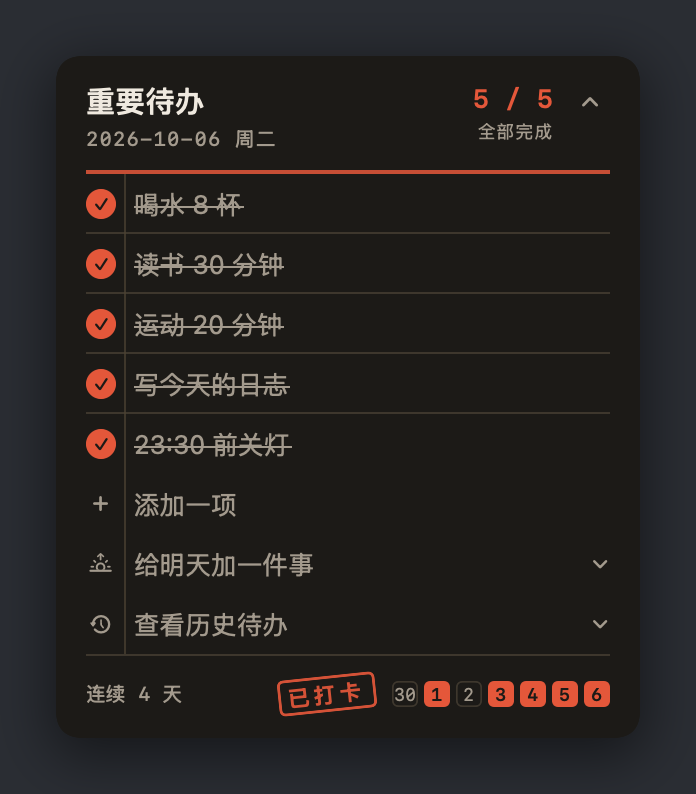
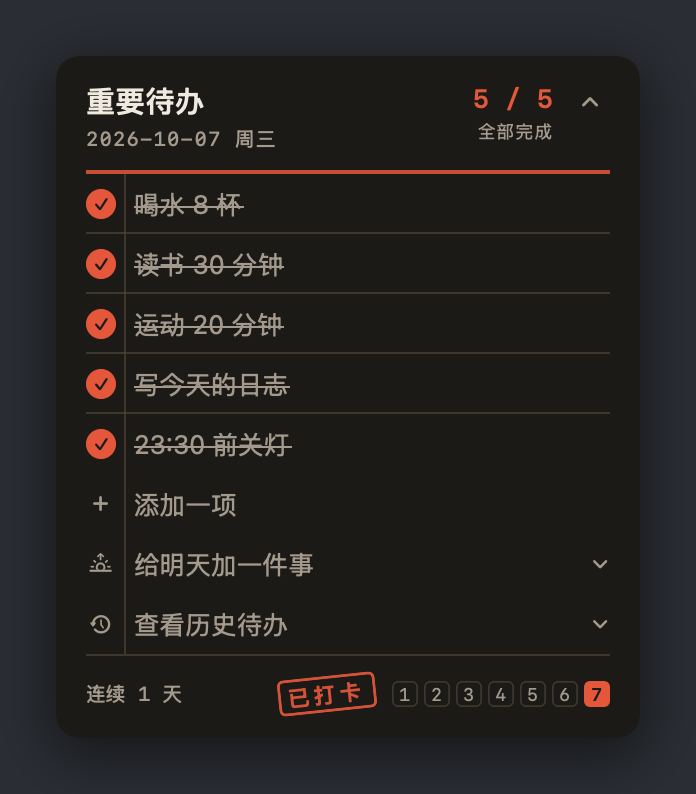
清单按天走：跨天即清空，昨天只留在历史里
修掉「昨天的待办第二天还出现在今日清单上」：
- 任务改为按天归属（每条都有 day）。今天写的事只属于今天，跨过 0 点
  卡片自然变空——不需要清空动作，因为不再有每天重复的任务类型
- 「添加一项」现在写的是今天的事（文案同步改成今天要做的事…）
- 取消未完成顺延：没做完的当晚随那天的记录进历史，今日清单不会残留
- 历史兜底：某天有清单但没打过孔时，用那天的清单显示，不再误报没有记录

旧数据迁移（你机器上的数据就是这种）：
- 无日期的条目（老版本的每天重复）启动时归到前一天，
  这样今天干净、它们仍然留在昨天的历史里
- 同时把它们并入昨天的应打清单，并重算今天的应打清单——否则今天的清单
  已不含这些条目、要求里却还留着，会导致今天永远打不满、盖不上章
- 迁移只跑一次；已在真实数据副本上干跑验证后再应用到本机

自检 91 项全过（新增：跨天后今日清单只剩明天排的那件、昨天一条都没跟过来、
漏掉一天只进历史、旧数据迁移、迁移可重复打开不重复搬运）

diff --git a/Sources/Tests.swift b/Sources/Tests.swift
@@ -172,16 +172,24 @@ struct TestRunner {
         check("今天的清单里没有它", !reopened3.todayTodos.contains { $0.id == planned.first?.id })
         check("今天的条目数没变", reopened3.todayTodos.count == todayBefore,
               "got \(reopened3.todayTodos.count)")
-        check("明天那天的清单里有它", reopened3.todos(on: tomorrow).count == todayBefore + 1,
+        check("明天的清单只有明天排的事", reopened3.todos(on: tomorrow).count == 1,
               "got \(reopened3.todos(on: tomorrow).count)")
+        check("今天的事不会跟到明天",
+              reopened3.todos(on: tomorrow).allSatisfy { $0.day == tomorrowKey })
         reopened3.addTomorrow(title: "   ")
         check("空标题被拒绝", reopened3.tomorrowTodos.count == 1)
 
         print("第二天：自动变成今日待办")
         let plannedID = planned.first!.id
+        let todayIDsBefore = Set(reopened3.todayTodos.map(\.id))
         reopened3.advanceClock(to: tomorrow)
         check("时钟走到第二天", Calendar.current.isDate(reopened3.now, inSameDayAs: tomorrow))
         check("它进了今日清单", reopened3.todayTodos.contains { $0.id == plannedID })
+        check("昨天的清单一条都没跟过来",
+              reopened3.todayTodos.allSatisfy { !todayIDsBefore.contains($0.id) },
+              "got \(reopened3.todayTodos.map(\.title))")
+        check("今日清单只剩明天排过的那一件", reopened3.todayTodos.count == 1,
+              "got \(reopened3.todayTodos.count)")
         check("明日抽屉空了", reopened3.tomorrowTodos.isEmpty)
         check("新的一天从零开始", reopened3.doneCount == 0, "got \(reopened3.doneCount)")
         check("新的一天还没完成", !reopened3.allDone)
@@ -190,17 +198,21 @@ struct TestRunner {
         check("打孔记录落在第二天", (reopened3.log[tomorrowKey] ?? []).contains(plannedID))
         check("新的一天在历史里是完成的", reopened3.isComplete(tomorrow))
 
-        print("漏掉的一天会顺延，不会悄悄消失")
-        let carryURL = URL(fileURLWithPath: NSTemporaryDirectory())
-            .appendingPathComponent("dailycheck-carry-\(UUID().uuidString).json")
-        let carried = Store(dataURL: carryURL)
-        carried.addTomorrow(title: "明天要做的重要事")
-        let carriedID = carried.tomorrowTodos.first!.id
-        carried.advanceClock(to: tomorrow)
-        carried.advanceClock(to: dayAfter)   // 第二天整天没打开过
-        check("没做完的明日待办顺延到今天", carried.todayTodos.contains { $0.id == carriedID })
-        check("顺延后不再是明天的待办", carried.tomorrowTodos.isEmpty)
-        check("它的日期被改成今天", carried.todayTodos.first { $0.id == carriedID }?.day == Store.key(for: dayAfter))
+        print("漏掉的一整天：今天清空，只留在历史里")
+        let missedURL = URL(fileURLWithPath: NSTemporaryDirectory())
+            .appendingPathComponent("dailycheck-missed-\(UUID().uuidString).json")
+        let missed = Store(dataURL: missedURL)
+        missed.addTomorrow(title: "明天要做的重要事")
+        let missedID = missed.tomorrowTodos.first!.id
+        missed.advanceClock(to: tomorrow)
+        check("到了那天它出现在今日清单", missed.todayTodos.contains { $0.id == missedID })
+        missed.advanceClock(to: dayAfter)   // 那一天整天没打开，也一条都没打
+        check("第二天今天的清单是空的", missed.todayTodos.isEmpty,
+              "got \(missed.todayTodos.map(\.title))")
+        check("没做完的也不会跟到今天", !missed.todayTodos.contains { $0.id == missedID })
+        let missedHistory = missed.history(days: 7)
+        check("它留在那天的历史里",
+              missedHistory.contains { day in day.entries.contains { $0.id == missedID } })
 
         print("做完的明日待办不会顺延")
         let doneURL = URL(fileURLWithPath: NSTemporaryDirectory())
@@ -211,10 +223,41 @@ struct TestRunner {
         finished.advanceClock(to: tomorrow)
         finished.toggle(finished.todos.first { $0.id == finishedID }!)
         finished.advanceClock(to: dayAfter)
-        check("不会又出现在今天", !finished.todayTodos.contains { $0.id == finishedID })
+        check("做完的也不会回今天的清单", !finished.todayTodos.contains { $0.id == finishedID })
         check("但它留在那天被记住", (finished.log[tomorrowKey] ?? []).contains(finishedID))
-        try? FileManager.default.removeItem(at: carryURL)
+        try? FileManager.default.removeItem(at: missedURL)
         try? FileManager.default.removeItem(at: doneURL)
+
+        print("旧数据迁移：无日期的任务归到昨天，今天清空")
+        let yesterdayDate = Calendar.current.date(byAdding: .day, value: -1, to: Date())!
+        let legacyURL = URL(fileURLWithPath: NSTemporaryDirectory())
+            .appendingPathComponent("dailycheck-legacy-\(UUID().uuidString).json")
+        let legacyPayload: [String: Any] = [
+            "todos": [
+                ["id": "old1", "title": "昨天记的事"],
+                ["id": "old2", "title": "昨天记的另一件事"],
+            ],
+            "log": [yesterdayKey: ["old1", "old2"]],
+        ]
+        if let data = try? JSONSerialization.data(withJSONObject: legacyPayload) {
+            try? data.write(to: legacyURL)
+        }
+        let legacy = Store(dataURL: legacyURL)
+        check("旧任务被归到昨天", legacy.todos.allSatisfy { $0.day == yesterdayKey },
+              "got \(legacy.todos.map { $0.day ?? "nil" })")
+        check("今天不显示昨天的事", legacy.todayTodos.isEmpty,
+              "got \(legacy.todayTodos.map(\.title))")
+        check("迁移时补上昨天的应打清单", legacy.needed[yesterdayKey] == ["old1", "old2"])
+        check("昨天在历史里仍是完整的一天", legacy.isComplete(yesterdayDate))
+        check("历史里还看得见那两条",
+              legacy.history(days: 7).contains { day in
+                  Calendar.current.isDate(day.date, inSameDayAs: yesterdayDate)
+                      && day.entries.count == 2 && day.doneCount == 2
+              })
+        let legacyReopened = Store(dataURL: legacyURL)
+        check("再次打开不会重复迁移", legacyReopened.todayTodos.isEmpty
+                && legacyReopened.todos.allSatisfy { $0.day == yesterdayKey })
+        try? FileManager.default.removeItem(at: legacyURL)
 
         try? FileManager.default.removeItem(at: url)
         print(failures == 0 ? "\nall checks passed" : "\n\(failures) check(s) failed")

diff --git a/Sources/Store.swift b/Sources/Store.swift
@@ -5,9 +5,10 @@ import SwiftUI
 struct Todo: Codable, Identifiable, Hashable {
     var id: String
     var title: String
-    /// nil means "every day" (the original behaviour). A day key means this one is only
-    /// needed on that date — that is how 明日待办 items are stored, and how they turn
-    /// into today's items without any other moving part.
+    /// The day this item belongs to. Every item belongs to exactly one day: the card is a
+    /// per-day list, so tomorrow starts empty and yesterday lives on in the history.
+    /// nil only ever appears in data written by an older build — the store re-dates those
+    /// to the previous day on launch (see migrateLegacyItems).
     var day: String? = nil
 }
 
@@ -127,7 +128,13 @@ final class Store: ObservableObject {
                 frameOrigin = CGPoint(x: x, y: y)
             }
         } else {
-            todos = Store.starterTodos
+            // The examples belong to today, like everything else on the card.
+            let today = Store.key(for: Date())
+            todos = Store.starterTodos.map { todo in
+                var copy = todo
+                copy.day = today
+                return copy
+            }
             log = [:]
             needed = [:]
             floating = true
@@ -139,8 +146,8 @@ final class Store: ObservableObject {
         clock = Timer.publish(every: 30, on: .main, in: .common)
             .autoconnect()
             .sink { [weak self] date in self?.advanceClock(to: date) }
-        // If the card was closed across midnight, finish the rollover now.
-        carryForwardOverdue()
+        // Data from an older build has undated items; give them a day so today is clean.
+        migrateLegacyItems()
     }
 
     // MARK: - Days
@@ -162,10 +169,11 @@ final class Store: ObservableObject {
     var tomorrow: Date { Store.date(daysAgo: -1, from: now) }
     var tomorrowKey: String { Store.key(for: tomorrow) }
 
-    /// Every day's list: recurring tasks, plus anything scheduled for that one date.
+    /// The list for one particular day, and nothing else: yesterday's items do not come
+    /// along, and tomorrow's wait in their own drawer.
     func todos(on date: Date) -> [Todo] {
         let key = Store.key(for: date)
-        return todos.filter { $0.day == nil || $0.day == key }
+        return todos.filter { $0.day == key }
     }
 
     var todayTodos: [Todo] { todos(on: now) }
@@ -249,16 +257,17 @@ final class Store: ObservableObject {
         return stride(from: 0, to: days, by: 1).map { offset in
             let day = Store.date(daysAgo: offset, from: now)
             let key = Store.key(for: day)
-            let required = needed[key] ?? log[key] ?? []
+            // What that day asked for: its recorded requirement, what it actually
+            // punched, or — for a day nobody finished — the list it was given.
+            let required = needed[key] ?? log[key] ?? todos(on: day).map(\.id)
             let done = Set(log[key] ?? [])
             let entries = required.compactMap { id -> HistoryDay.Entry? in
                 guard let title = titles[id] else { return nil }
                 return HistoryDay.Entry(id: id, title: title, done: done.contains(id))
             }
-            let hasRecord = needed[key] != nil || log[key] != nil
             return HistoryDay(date: day,
                               complete: isComplete(day),
-                              hasRecord: hasRecord && !required.isEmpty,
+                              hasRecord: !entries.isEmpty,
                               entries: entries)
         }
     }
@@ -336,7 +345,9 @@ final class Store: ObservableObject {
     func add(title: String) {
         let trimmed = title.trimmingCharacters(in: .whitespacesAndNewlines)
         guard !trimmed.isEmpty else { return }
-        todos.append(Todo(id: UUID().uuidString, title: trimmed))
+        // Belongs to today only. Tomorrow's card starts with tomorrow's list, and this
+        // one moves into the history with the rest of the day.
+        todos.append(Todo(id: UUID().uuidString, title: trimmed, day: todayKey))
         refreshTodayRequirement()
         save()
     }
@@ -350,27 +361,36 @@ final class Store: ObservableObject {
         save()
     }
 
-    /// Moves an unfinished item that was planned for an earlier day onto today. A missed
-    /// day should not silently swallow something the user marked as important.
-    func carryForwardOverdue() {
-        let key = todayKey
-        var moved = false
-        for index in todos.indices {
-            guard let day = todos[index].day, day < key else { continue }
-            if (log[day] ?? []).contains(todos[index].id) { continue }
-            todos[index].day = key
-            moved = true
+    /// Items written before the card became a per-day list carry no date. They are
+    /// stamped with the previous day, which is what makes today start clean — and they
+    /// stay visible in the history for that day, with the punches they earned.
+    func migrateLegacyItems() {
+        let fallbackDay = Store.key(for: Store.date(daysAgo: 1, from: now))
+        var migrated: [String] = []
+        for index in todos.indices where todos[index].day == nil {
+            todos[index].day = fallbackDay
+            migrated.append(todos[index].id)
         }
-        guard moved else { return }
-        if needed[key] != nil { refreshTodayRequirement() }
+        guard !migrated.isEmpty else { return }
+        // Yesterday's card asked for those items, so add them to whatever yesterday was
+        // already recorded as requiring — nothing the user wrote becomes invisible.
+        var yesterday = needed[fallbackDay] ?? []
+        for id in migrated where !yesterday.contains(id) {
+            yesterday.append(id)
+        }
+        needed[fallbackDay] = yesterday
+        // Today's list is now just today's items, so today's requirement has to be
+        // rewritten too; otherwise the day could never be completed (it would still be
+        // waiting for items that belong to yesterday).
+        refreshTodayRequirement()
         save()
     }
 
     /// The card's clock. The timer calls it, and the checks call it to travel a day.
+    /// Rolling over needs no other work: the new day simply has its own — usually empty —
+    /// list, and yesterday's stays visible in the history only.
     func advanceClock(to date: Date) {
-        let previous = todayKey
         now = date
-        if todayKey != previous { carryForwardOverdue() }
     }
 
     func rename(_ todo: Todo, to title: String) {

diff --git a/Sources/WidgetView.swift b/Sources/WidgetView.swift
@@ -180,7 +180,7 @@ struct WidgetView: View {
                     .font(.system(size: 9, weight: .bold))
                     .foregroundStyle(theme.stamp)
                     .frame(width: 15)
-                TextField("每天都要做的一件事…", text: $draft)
+                TextField("今天要做的事…", text: $draft)
                     .textFieldStyle(.plain)
                     .font(Face.task)
                     .foregroundStyle(theme.ink)
@@ -218,7 +218,7 @@ struct WidgetView: View {
             }
             .buttonStyle(.plain)
             .onHover { hoverAdd = $0 }
-            .help("添加一个每天都做的事")
+            .help("写一件今天要做的事（明天它跟着这一天的记录进历史）")
         }
     }
 
@@ -360,7 +360,7 @@ struct WidgetView: View {
             Text("这张卡还没有印上内容")
                 .font(Face.task)
                 .foregroundStyle(theme.ink)
-            Text("写下每天都要做的事，明天它会自己清空。")
+            Text("写下今天要做的事；明天这张卡会清空，只留在历史里。")
                 .font(.system(size: 11))
                 .foregroundStyle(theme.inkSoft)
         }

diff --git a/Sources/Preview.swift b/Sources/Preview.swift
@@ -40,12 +40,15 @@ func sampleStore(allDone: Bool,
                  width: Double = 292) -> Store {
     let url = URL(fileURLWithPath: NSTemporaryDirectory())
         .appendingPathComponent("dailycheck-preview-\(UUID().uuidString).json")
+    // Every item belongs to a day, so the sample has to say which one — otherwise the
+    // store would treat it as legacy data and file it under yesterday.
+    let todayKey = Store.key(for: Date())
     var todos: [[String: String]] = empty ? [] : [
-        ["id": "t1", "title": "喝水 8 杯"],
-        ["id": "t2", "title": "读书 30 分钟"],
-        ["id": "t3", "title": "运动 20 分钟"],
-        ["id": "t4", "title": "写今天的日志"],
-        ["id": "t5", "title": "23:30 前关灯"],
+        ["id": "t1", "title": "喝水 8 杯", "day": todayKey],
+        ["id": "t2", "title": "读书 30 分钟", "day": todayKey],
+        ["id": "t3", "title": "运动 20 分钟", "day": todayKey],
+        ["id": "t4", "title": "写今天的日志", "day": todayKey],
+        ["id": "t5", "title": "23:30 前关灯", "day": todayKey],
     ]
     let ids = todos.compactMap { $0["id"] }
     if tomorrowOpen {

diff --git a/DESIGN.md b/DESIGN.md
@@ -116,13 +116,16 @@
 ○  复习 state 共享信息如何保证上下文                  ← 空心小圈：今天还不是孔位
 ```
 
-它没有另造一套机制，而是把"这一天"写进任务本身：`Todo.day` 为空＝每天都要做（原有行为），
-有日期＝只在那一做。于是"第二天自动变成今日待办"不需要任何定时任务——到了那天，它本来
-就落在当天的清单里；`needed`／`log`／连续天数／历史全都照旧工作。
+它没有另造一套机制，而是把"这一天"写进任务本身：**每条任务都属于某一天**（`Todo.day`）。
+于是"第二天自动变成今日待办"不需要任何定时任务——到了那天，它本来就落在当天的清单里；
+`needed`／`log`／连续天数／历史全都照旧工作。
+
+这条规则是这张卡的核心：**一天一份清单**。今天写的事只属于今天，跨过 0 点卡片自然变空，
+昨天的事只留在历史里——不需要"清空"这个动作，因为没有任何东西是"每天重复"的。
 
 - **今天不占完成度**：明天的事项不在今日清单里，不影响今天的 `2 / 5` 与连续天数（有自检盯着）。
-- **不会悄悄消失**：如果那天整天没打开，或没做完，它的 `day` 会在下次启动/跨天时改成今天，
-  顺延到今日清单（`carryForwardOverdue`）；已经做完的不会被顺延。
+- **跨天即清空**：没做完的当晚不顺延，跟那天的记录一起留在历史里。这是刻意的——"昨天的事今天还在"
+  正是这张卡要避免的。想找回来就打开历史照着再写一遍。
 - **空心小圈**：明日条目用 11pt 空心圈而不是 15pt 孔位——它还不是孔位，来了才算。
 - **抽屉互斥**：明日抽屉与历史抽屉一次只开一个，卡片不会变成一摞抽屉。
 
@@ -130,6 +133,18 @@
 `store.todos`，于是"明天的条目"同时出现在今日清单里；`isLast` 也按全局最后一条判断，
 导致今日最后一行多画了一条格线。逻辑自检全绿（它们测的是 Store）但界面是错的——
 这两处是像素比对预览图时发现的：今日清单里出现了两条只可能属于明天的长标题。
+
+### 早期数据的迁移
+
+第一版把清单当成"每天重复的模板"，数据里的任务没有 `day`。改成按天之后，启动时会把这些无日期的
+条目归到**前一天**：它们本来就是每天出现的，这么处理正好等于"把它们留在昨天、让今天干净"。
+同时做两件收尾，避免修出新的坑：
+
+1. 把它们并入昨天的应打清单（`needed`），否则会有条目在历史里凭空消失；
+2. 重算今天的应打清单（`refreshTodayRequirement`），否则今天的清单已经不含昨天的条目，
+   但要求里还留着——今天永远打不满、永远盖不上章。
+
+迁移只跑一次：写完数据后就没有无日期的条目了，再启动不会重复搬动。
 
 ## 动效
 
@@ -191,7 +206,8 @@
 
 - `preview/live-card.png`：292×190pt 的日常状态。核验结果：标题区的墨点与 `light.png` 同一区域 **1461 个像素 100% 重合**；右上角收起按钮在实拍图上可读出 `chevron.up` 的形状，位置距卡片右边 19–28pt；当天尚未打卡，所以纯印章红像素为 0。
 - `preview/history.png`：292×604pt、历史抽屉展开的状态。核验结果：卡纸占比 92.5%；今天那组只有 2 个实心孔（对应 `log` 里今天的两条），昨天那组 5 个实心孔 + 一枚小印章，日期戳出现在页脚——与数据完全对得上。
-- `preview/tomorrow-live.png`：292×366pt、明日抽屉展开的状态（深色模式，系统当时已切到夜间外观）。核验结果：今日清单 3 行（每天任务 + 当天排的事 + 顺延过来的一条），抽屉从 208pt 处起，里面是"明天 10-07"表头、书写位和 1 条空心圈条目；同日早些时候的截图还验证过顺延后的数据：`day` 被改写为今天，而两天前已完成的那条保持原日期不动。
+- `preview/tomorrow-live.png`：292×366pt、明日抽屉展开的状态（深色模式，系统当时已切到夜间外观）。核验结果：抽屉从 208pt 处起，里面是"明天 10-07"表头、书写位和 1 条空心圈条目。
+- `preview/history-cleared.png`：420×672pt、真实数据迁移后的第一张实机图（历史抽屉展开）。核验结果：今日清单只剩 1 行（前一晚用明日待办排的那件），昨天的 6 条全部退到历史里，昨天那组显示 6 条、其中 5 条有打孔——与 `log`／`needed` 完全对得上。
 
 历史抽屉之所以用实机截屏而不是代码渲染：`ImageRenderer` 不会绘制 `ScrollView` 内部的内容（那块会渲染成透明），而抽屉按设计就是滚动容器。
 
